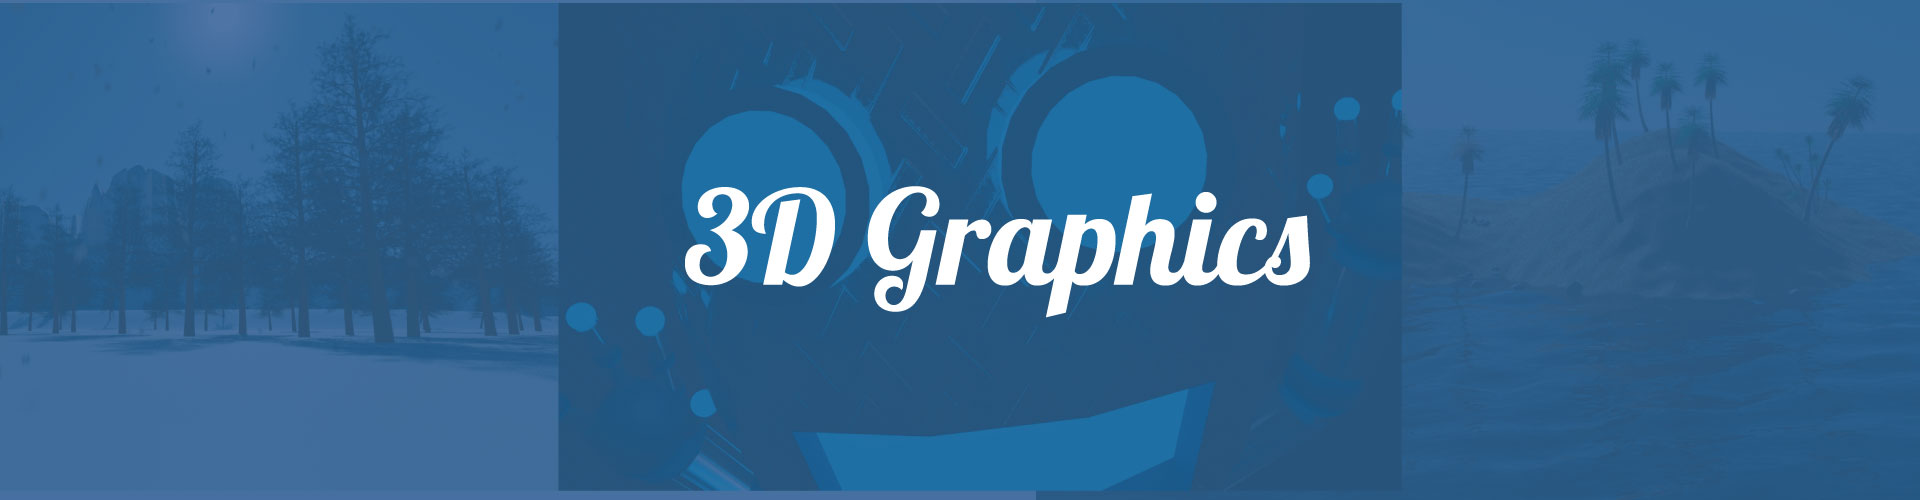
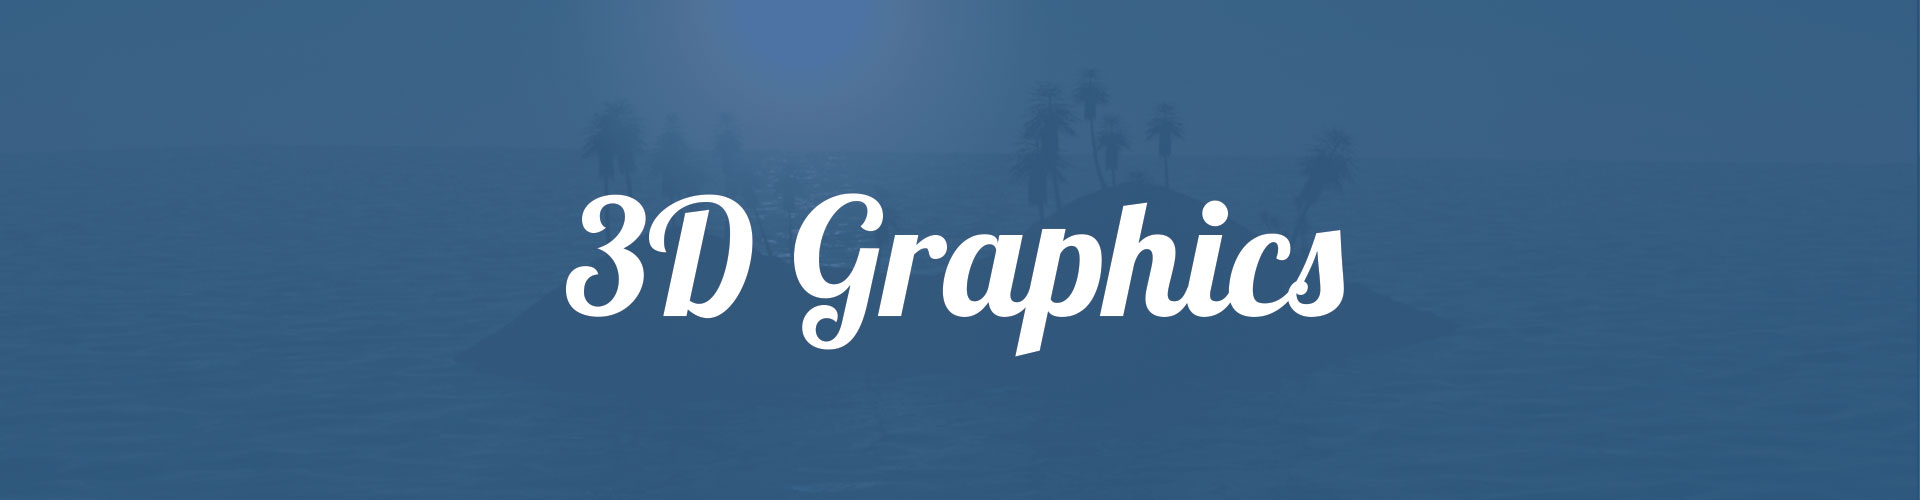
Changed image headers

diff --git a/development.html b/development.html
@@ -70,7 +70,7 @@
         
         <div id="header-top-mobile">
             
-        <img src="images/developmentbanner.jpg" width="100%">
+        <img src="images/developmentbanner-mobile.jpg" width="100%">
                     
          </div>
         

diff --git a/design.html b/design.html
@@ -72,7 +72,7 @@
         
         <div id="header-top-mobile">
             
-        <img src="images/graphicdesignbanner.jpg" width="100%">
+        <img src="images/designbanner-mobile.jpg" width="100%">
                     
          </div>
         

diff --git a/contact.html b/contact.html
@@ -71,7 +71,7 @@
         
         <div id="header-top-mobile">
             
-        <img src="images/contactbanner.jpg" width="100%">
+        <img src="images/contactbanner-mobile.jpg" width="100%">
                     
          </div>
         

diff --git a/3dgraphic.html b/3dgraphic.html
@@ -70,7 +70,7 @@
         
         <div id="header-top-mobile">
             
-        <img src="images/3dbanner.jpg" width="100%">
+        <img src="images/3dbanner-mobile.jpg" width="100%">
                     
          </div>
         
